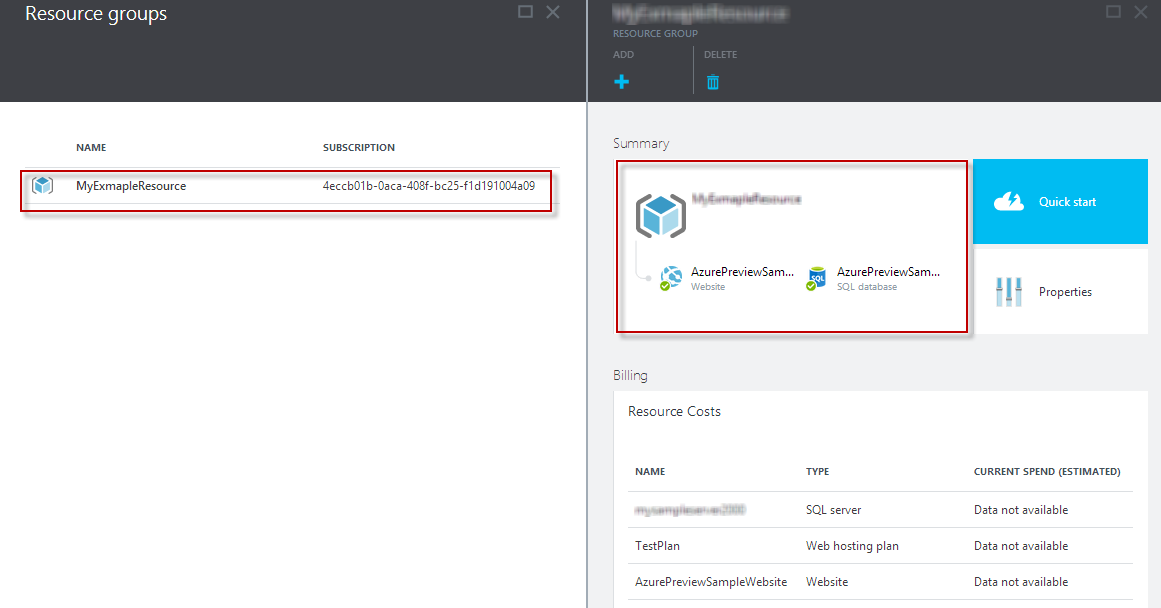
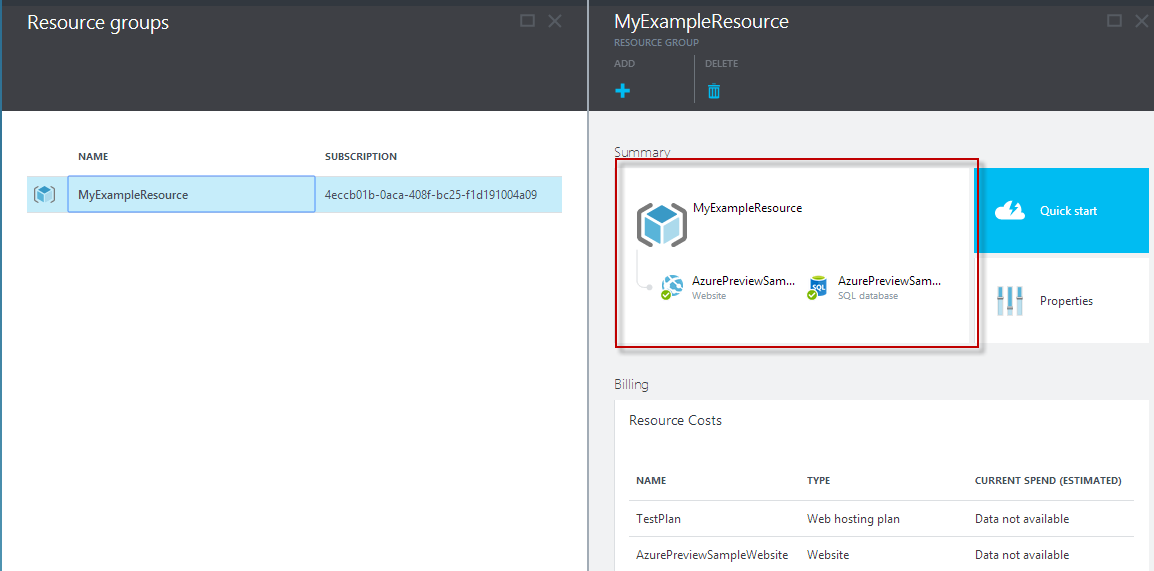
[HOL-GettingStartedAzurePreviewPortal] Ex3 - Updated screenshots and added confirmation blade

diff --git a/HOLs/HOL-GettingStartedAzurePreviewPortal/HOL.md b/HOLs/HOL-GettingStartedAzurePreviewPortal/HOL.md
@@ -376,7 +376,7 @@ In the **Commit** blade, enter a comment and click **OK**.
 <a name="Exercise3" />
 ### Exercise 3 : Creating Azure Environments using Azure Resource Manager ###
 
-Azure Resource Manager introduces an entirely new way of thinking about your Azure resources. Instead of creating and managing individual resources, you begin by imagining a complex service, such as a blog, a photo gallery, a SharePoint portal, or a wiki. You use a template -- a resource model of the service -- to create a resource group with the resources that you need to support the service. Then, you can manage and deploy that resource group as a logical unit.
+**Azure Resource Manager** introduces an entirely new way of thinking about your Azure resources. Instead of creating and managing individual resources, you begin by imagining a complex service, such as a blog, a photo gallery, a SharePoint portal, or a wiki. You use a template -- a resource model of the service -- to create a resource group with the resources that you need to support the service. Then, you can manage and deploy that resource group as a logical unit.
 
 In this exercise, you learn how to use Azure PowerShell with Resource Manager for Microsoft Azure. You will go through the process of downloading, updating and creating a resource group for a Web site with a SQL database.
 
@@ -423,9 +423,9 @@ In this task you will you will use Azure PowerShell for Azure Resources to list 
 	
 	_Add-AzureAccount command_
 	
-	>**Note**: The **Set-AzureSubscription** cmdlet configures common settings including subscription ID, management certificate, and custom endpoints. The settings are stored in a subscription data file in the user’s profile or in a user specified file. Multiple subscription data sets are supported and identified by a subscription name. To select a subscription and make it current, use the Select-AzureSubscription cmdlet. 
+	>**Note**: The **Set-AzureSubscription** cmdlet configures common settings including subscription ID, management certificate, and custom endpoints. The settings are stored in a subscription data file in the user’s profile or in a user specified file. Multiple subscription data sets are supported and identified by a subscription name. To select a subscription and make it current, use the **Select-AzureSubscription** cmdlet. 
 	
-1. Execute the following command to get a list of resources from the group gallery templates.
+1. Execute the following command to get the list of resources from the group gallery templates.
 
 	````PowerShell	
 	Get-AzureResourceGroupGalleryTemplate
@@ -443,7 +443,7 @@ In this task you will you will use Azure PowerShell for Azure Resources to list 
 	
 	_Get-AzureRourceGroupGalleryTemplate command_
 	
-1.  To save a gallery template as a JSON file, use the **Save-AzureResourceGroupGalleryTemplate** cmdlet. Download the **Microsoft.WebSiteSQLDatabase.0.1.0-preview1** template executing the following command.
+1.  To save a gallery template as a JSON file, use the **Save-AzureResourceGroupGalleryTemplate** cmdlet. Download the **Microsoft.WebSiteSQLDatabase.0.1.0-preview1** template executing the following command replacing the _[FILE-PATH]_ placeholder.
 
 	````PowerShell
 	Save-AzureResourceGroupGalleryTemplate -Identity Microsoft.WebSiteSQLDatabase.0.1.0-preview1 -Path [FILE-PATH]	
@@ -528,14 +528,16 @@ In this task you will update the JSON file from the Simple website template and 
 	````PowerShell
 	New-AzureResourceGroup -Location [LOCATION] -Name [RESOURCE-GROUP-NAME] -TemplateFile [JSON-File-Path]  –StorageAccountName [STORAGEACCOUNT] -siteName [WEBSITENAME] -hostingPlanName TestPlan -siteLocation "North Europe" -serverName [SERVERNAME] -serverLocation "West US" -administratorLogin Admin01 -databaseName [DATABASENAME] -Verbose
 	````
-
-	> **Note**: When you enter the command, you are prompted for the missing mandatory parameter, **administratorLoginPassword**. And, when you type the password, the secure string value is obscured. This strategy eliminates the risk of providing a password in plain text.
 	
-1. Enter the **administratorLoginPassword** and press **Enter**.
+	>**Dynamic Template Parameters**: To get the parameters, type a minus sign (-) to indicate a parameter name and then press the **TAB** key. Or, type the first few letters of a parameter name, such as siteName and then press the TAB key.
+	
+1. When you enter the command, you are prompted for the missing mandatory parameter **administratorLoginPassword**. Enter the **administratorLoginPassword** and press **Enter**.
 
 	![New-AzureResourceGroup](Images/new-azureresourcegroup.png?raw=true "New-AzureResourceGroup")
 	
 	_New-AzureResourceGroup command_
+	
+	>**Note**: Notice that when you type the password, the secure string value is obscured. This strategy eliminates the risk of providing a password in plain text.
 	
 1. Open Internet Explorer and browse the [Azure Portal](http://azure.portal.com)
 
@@ -563,11 +565,17 @@ In this task you will update the JSON file from the Simple website template and 
 	
 	_Custom Resource Group_
 	
-1. Click the delete button in the resource group to delete it.
+1. Click the **DELETE** button in the resource group to delete it.
 
 	![Delete button](Images/delete-button.png?raw=true "Delete button")
 	
 	_Delete button_
+
+1. In the delete confirmation blade, enter the resource group name and click delete.
+
+	![Delete confirmation blade](Images/delete-confirmation-blade.png?raw=true "Delete confirmation blade")
+	
+	_Delete confirmation blade_
 
 ---
 
